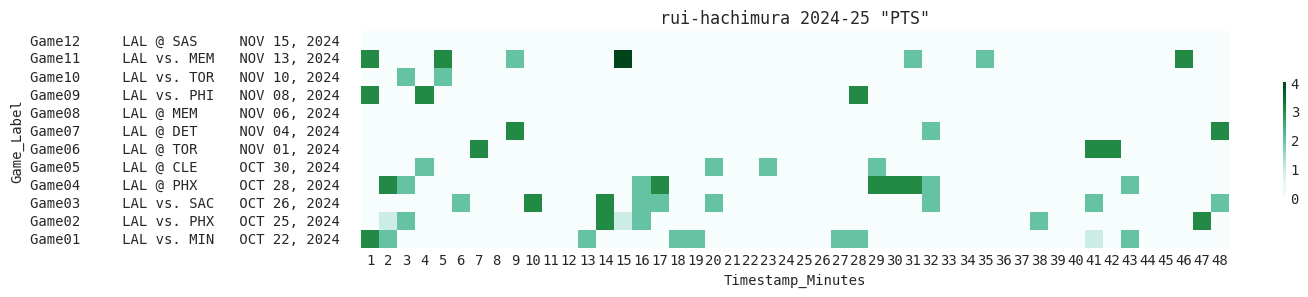
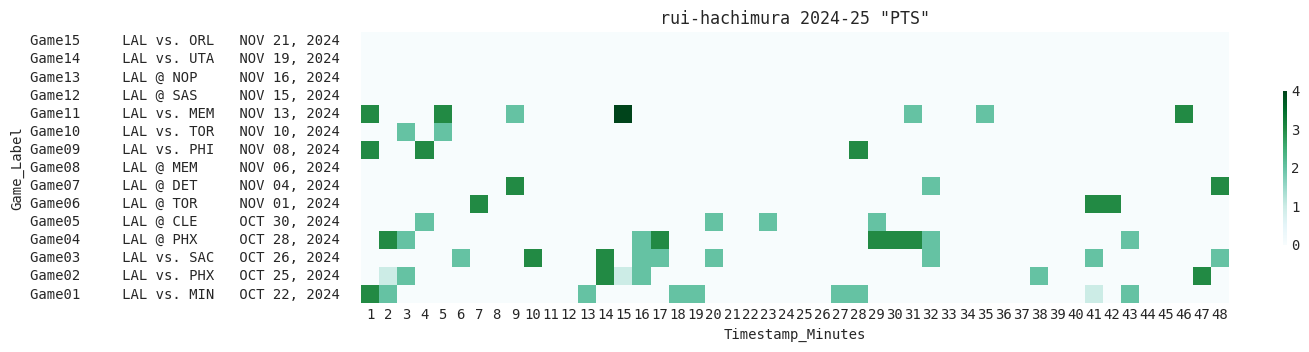
Update the result.

diff --git a/2024-25.md b/2024-25.md
@@ -1,5 +1,5 @@
 ## 活躍状況 2024-25 シーズン
-> Last Update: 2024-11-16 21:38:08
+> Last Update: 2024-11-22 23:00:36
 - (注)オーバータイム時の情報は対象外です。
 
 ### 八村塁 Rui Hachimura
